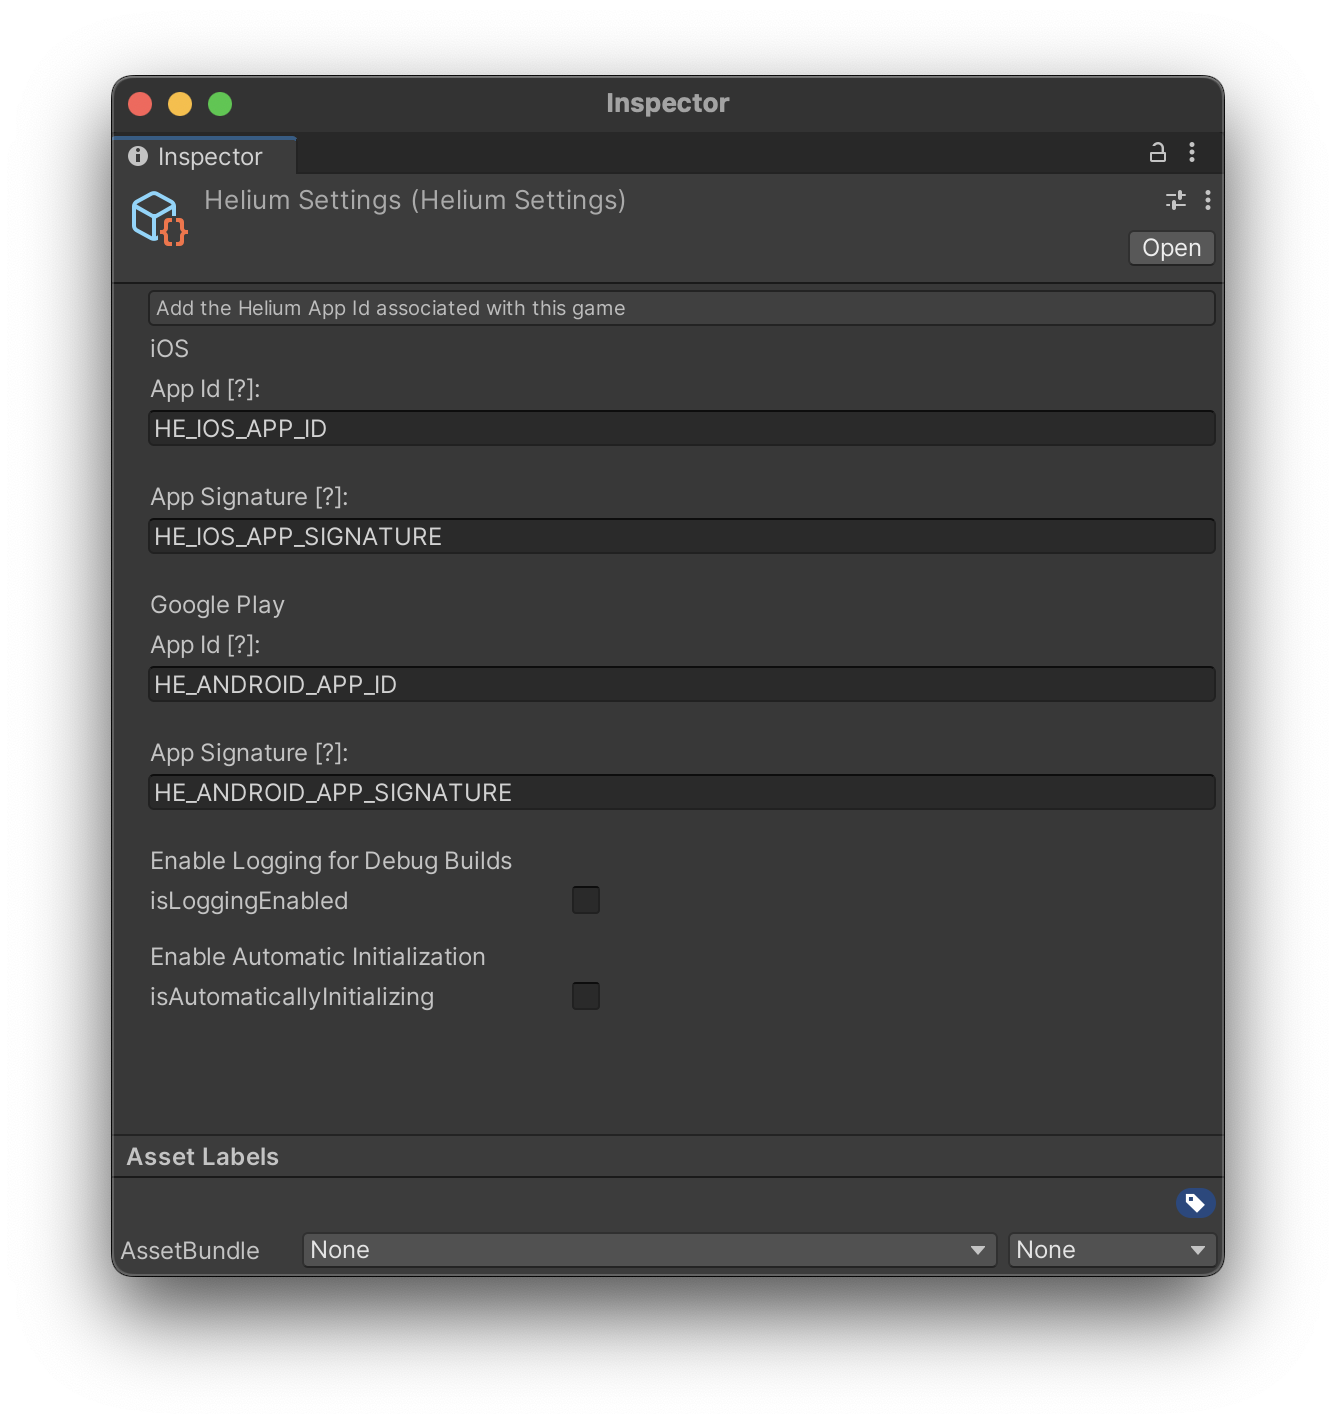
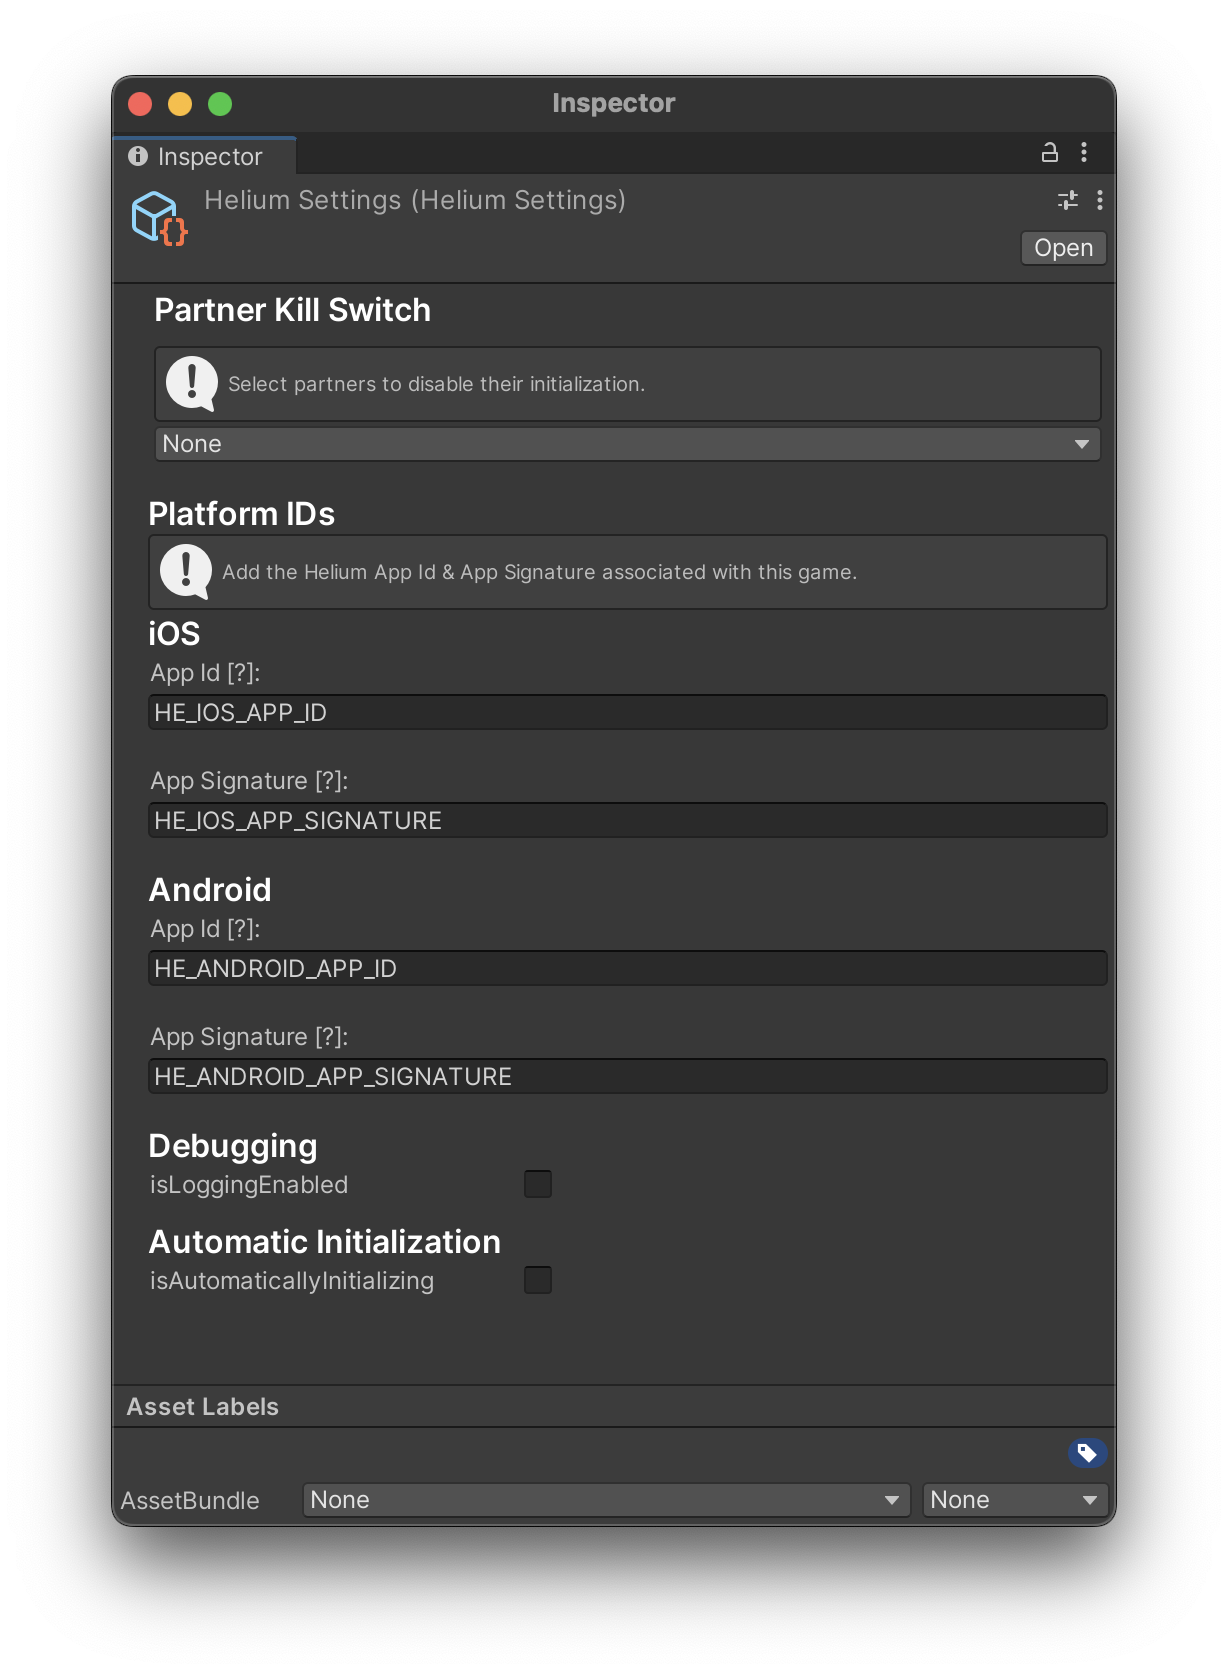
Updating Docs

Changed region(s): [[0.0619, 0.0309, 0.9283, 0.9579], [0.1238, 0.5253, 0.4332, 0.7725]]

diff --git a/com.chartboost.helium/Runtime/HeliumSettings.cs b/com.chartboost.helium/Runtime/HeliumSettings.cs
@@ -9,6 +9,9 @@ using UnityEditor;
 
 namespace Helium
 {
+    /// <summary>
+    /// List of officially supported Helium mediation partners and their identifiers
+    /// </summary>
     [Flags]
     public enum HeliumPartners
     {
@@ -46,6 +49,9 @@ namespace Helium
         Yahoo = 16384
     }
 
+    /// <summary>
+    /// Helium Unity SDK Settings as an scriptable object with accessors
+    /// </summary>
     public class HeliumSettings : ScriptableObject
     {
         private const string Package = "com.chartboost.helium";
@@ -130,16 +136,16 @@ namespace Helium
         [SerializeField] private HeliumPartners partnerKillSwitch = HeliumPartners.None;
 
         /// <summary>
-        /// Accessor for PartnerKillswich 
+        /// Accessor for partnerKillSwitch. 
         /// </summary>
-        public static HeliumPartners PartnersKillSwitch
+        public static HeliumPartners PartnerKillSwitch
         {
             get => Instance.partnerKillSwitch;
             set => Instance.partnerKillSwitch = value;
         }
 
         /// <summary>
-        /// Accessor for androidAppId
+        /// Accessor for androidAppId.
         /// </summary>
         public static string AndroidAppId
         {
@@ -155,7 +161,7 @@ namespace Helium
         }
 
         /// <summary>
-        /// Accessor for androidAppSignature
+        /// Accessor for androidAppSignature.
         /// </summary>
         public static string AndroidAppSignature
         {
@@ -171,7 +177,7 @@ namespace Helium
         }
 
         /// <summary>
-        /// Accessor for iOSAppId
+        /// Accessor for iOSAppId.
         /// </summary>
         public static string IOSAppId
         {
@@ -187,7 +193,7 @@ namespace Helium
         }
 
         /// <summary>
-        /// Accessor for iOSAppSignature
+        /// Accessor for iOSAppSignature.
         /// </summary>
         public static string IOSAppSignature
         {
@@ -203,7 +209,7 @@ namespace Helium
         }
 
         /// <summary>
-        /// Accessor for LoggingEnabled settings
+        /// Accessor for isLoggingEnabled.
         /// </summary>
         public static bool IsLoggingEnabled
         {

diff --git a/com.chartboost.helium/Runtime/Interfaces/IHeliumLifeCycle.cs b/com.chartboost.helium/Runtime/Interfaces/IHeliumLifeCycle.cs
@@ -16,10 +16,14 @@ namespace Helium.Interfaces
         
         /// <summary>
         /// Called immediately when impression level revenue data has been received after an
-        /// ad was displayed on the screen. This may be called in a background thread. This event
-        /// is sent natively from iOS and Android.
+        /// ad was displayed on the screen.
         /// </summary>
         [Preserve]
         public event HeliumILRDEvent DidReceiveImpressionLevelRevenueData;
+        
+        /// <summary>
+        /// Provides Helium initialization metrics data in a json format.
+        /// </summary>
+        public event HeliumPartnerInitializationEvent DidReceivePartnerInitializationData;
     }
 }

diff --git a/com.chartboost.helium/Editor/HeliumSettingEditor.cs b/com.chartboost.helium/Editor/HeliumSettingEditor.cs
@@ -43,10 +43,10 @@ namespace Helium.Editor
 		{
 			// partner kill-switch
 			EditorGUILayout.BeginVertical();
-			EditorGUILayout.LabelField("Partner Kill-Switch", _title);
+			EditorGUILayout.LabelField("Partner Kill Switch", _title);
 			EditorGUILayout.Space();
 			EditorGUILayout.HelpBox("Select partners to disable their initialization.", MessageType.Info);
-			HeliumSettings.PartnersKillSwitch = (HeliumPartners)EditorGUILayout.EnumFlagsField(HeliumSettings.PartnersKillSwitch);
+			HeliumSettings.PartnerKillSwitch = (HeliumPartners)EditorGUILayout.EnumFlagsField(HeliumSettings.PartnerKillSwitch);
 			EditorGUILayout.EndVertical();
 			
 			EditorGUILayout.Space();

diff --git a/com.chartboost.helium/Runtime/HeliumSDK.cs b/com.chartboost.helium/Runtime/HeliumSDK.cs
@@ -50,6 +50,7 @@ namespace Helium
             remove => _heliumExternal.DidReceiveImpressionLevelRevenueData -= value;
         }
         
+        /// <inheritdoc cref="IHeliumLifeCycle.DidReceivePartnerInitializationData"/>>
         public static event HeliumPartnerInitializationEvent DidReceivePartnerInitializationData
         {
             add => _heliumExternal.DidReceivePartnerInitializationData += value;

diff --git a/com.chartboost.helium/Runtime/Platforms/HeliumExternal.cs b/com.chartboost.helium/Runtime/Platforms/HeliumExternal.cs
@@ -139,7 +139,7 @@ namespace Helium.Platforms
                 return attributes.Length > 0 ? attributes[0].Description : value.ToString();
             }
             
-            var killSwitch = HeliumSettings.PartnersKillSwitch;
+            var killSwitch = HeliumSettings.PartnerKillSwitch;
             var initOptions  = Array.Empty<string>();;
 
             if (killSwitch == HeliumPartners.None)

diff --git a/com.chartboost.helium/Documentation/integration/initialization.md b/com.chartboost.helium/Documentation/integration/initialization.md
@@ -10,12 +10,10 @@ using Helium;
 
 ## Initializing Helium SDK
 
-In order to initialize the Helium SDK, you will need your Helium App ID & App Signature. This can be obtained in your [Helium Dashboard](https://helium.chartboost.com
-).
-
+In order to initialize the Helium SDK, you will need your Helium App ID & App Signature. This can be obtained in your [Helium Dashboard](https://helium.chartboost.com).
 There are 2 ways you can go about providing your App IDs to the Helium SDK.
 
-### Scriptable Object & Automatic Initialization
+### Helium Settings & Automatic Initialization
 
 Go to **Helium** > **Edit Settings**
 
@@ -23,7 +21,33 @@ Add your **Helium App ID** and **Helium App Signature**
 
 Enable Automatic Initialization on the Helium Settings Scriptable object.
 
-#### Default Helium Settings
+#### Helium Settings Static Accessors
+
+HeliumSettings parameters can be modified via the available static accessors. As follows:
+
+```c#
+// IOS IDs Accessors
+HeliumSettings.IOSAppId = "SAMPLE_APP_ID_IOS";
+HeliumSettings.IOSAppSignature = "SAMPLE_APP_SIGNATURE_IOS";
+
+// Android IDs Accessors
+HeliumSettings.AndroidAppId = "SAMPLE_APP_ID_ANDROID";
+HeliumSettings.AndroidAppSignature = "SAMPLE_APP_SIGNATURE_ANDROID";
+
+
+// Logging Status Accessor
+HeliumSettings.IsLoggingEnabled = false;
+
+// Automatic Initialization Accessor
+HeliumSettings.IsAutomaticInitializationEnabled = false;
+
+// Partner Kill Switch Accessor
+HeliumSettings.PartnersKillSwitch = HeliumPartners.None;
+```
+
+The Helium SDK automatically uses such parameters to make decisions, the APIs are exposed for ease of usage.
+
+### Default Helium Settings
 
 ![Helium Settings](../images/helium-settings.png)
 
@@ -47,3 +71,24 @@ This will start the Helium SDK. For delegate information see section [Delegate U
 > **_NOTE:_** Failing to remove fillers such as HELIUM_APP_ID and HELIUM_APP_SIGNATURE will result in an error.
 
 Once the Helium SDK has successfully started, you can start requesting ads.
+
+### Partner Kill Switch
+
+From Helium 3.3.0 forward, the Helium SDK initialization method has been expanded to take in optional initialization parameters. One of those parameters is a set of partner adapter identifiers to skip initialization for the session.
+
+In Unity, Helium partners are identified through the HeliumPartners enum. HeliumPartners implements enum flags, which means flags can be raised before initialization as needed.
+
+By default, the Partner Kill Switch can be easily modified through the HeliumSettings scriptable object. By doing so, you can only enable/disable partner before builds are compiled. However, if your game utilizes a remote config supported service such as Leanplum, Swrve, etc. you can utilize remote config variables to enable/disable partners in deployed builds.
+
+The following example disables AdMob, Facebook, and TapJoy before Helium initialization. As long as the `HeliumSettings.PartnersKillSwitch` parameter is modified before initialization, the partner networks will be skipped during the initialization process.
+
+
+```c#
+HeliumSettings.PartnersKillSwitch = HeliumPartners.AdMob | HeliumPartners.Facebook | HeliumPartners.TapJoy;
+
+var appID = "SAMPLE_APP_ID";
+var appSignature = "SAMPLE_APP_SIGNATURE";
+
+HeliumSDK.StartWithAppIdAndAppSignature(appID, appSignature);
+```
+For more information on how to corroborate partner initialization data visit [Delegate Usage](delegate-usage.md)

diff --git a/com.chartboost.helium/Documentation/integration/delegate-usage.md b/com.chartboost.helium/Documentation/integration/delegate-usage.md
@@ -22,6 +22,9 @@ private void OnEnable() {
     // Helium ILRD Delegate
     HeliumSDK.DidReceiveImpressionLevelRevenueData += DidReceiveImpressionLevelRevenueData;
 
+    // Helium Partner Initialization Data Delegate
+    HeliumSDK.DidReceivePartnerInitializationData += DidReceivePartnerInitializationData;
+
     // Helium Error Handling Delegate
     HeliumSDK.UnexpectedSystemErrorDidOccur += UnexpectedSystemErrorDidOccur;
 
@@ -68,6 +71,9 @@ private void OnDisable() {
     // Helium ILRD Delegate
     HeliumSDK.DidReceiveImpressionLevelRevenueData -= DidReceiveImpressionLevelRevenueData;
 
+    // Helium Partner Initialization Data Delegate
+    HeliumSDK.DidReceivePartnerInitializationData -= DidReceivePartnerInitializationData;
+
     // Helium Error Handling Delegate
     HeliumSDK.UnexpectedSystemErrorDidOccur -= UnexpectedSystemErrorDidOccur;
 
@@ -111,6 +117,12 @@ private void DidReceiveImpressionLevelRevenueData(string placement, Hashtable im
 {
     var json =  HeliumJSON.Serialize(impressionData);
     Debug.Log($"DidReceiveImpressionLevelRevenueData {placement}: {json}");
+}
+
+// Helium Partner Initialization Data Delegate
+private void DidReceivePartnerInitializationData(string partnerInitializationData)
+{
+    Debug.Log($"DidReceivePartnerInitializationData: ${partnerInitializationData}");
 }
 
 // Helium Error Handling Delegate
